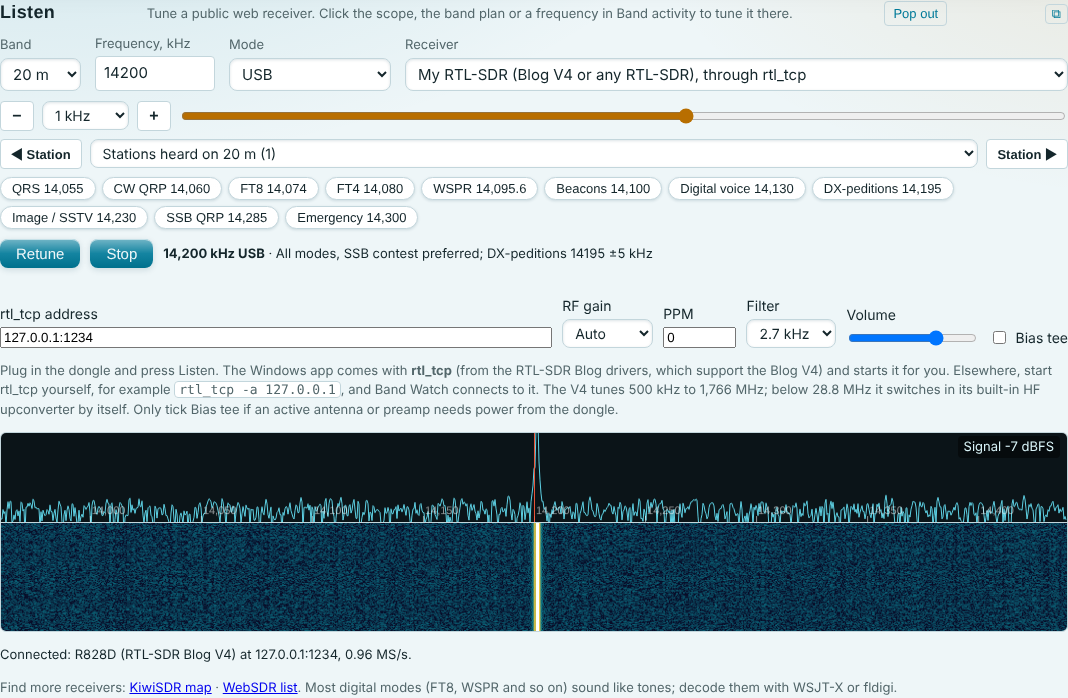
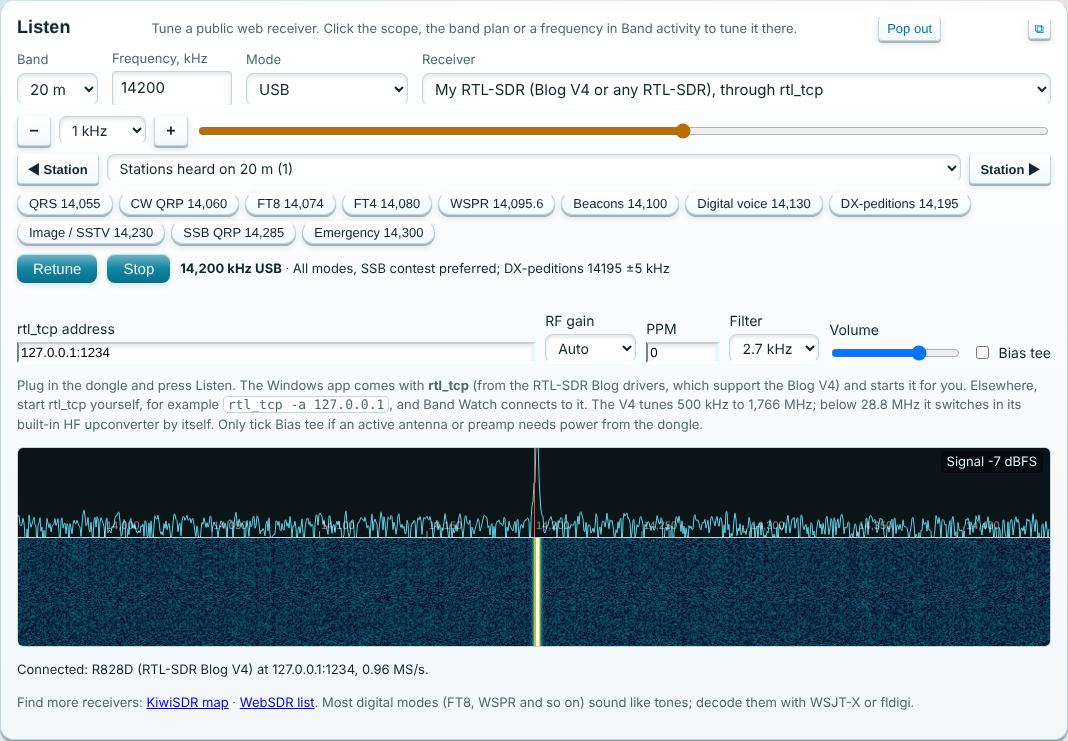
1.22.0: Listen goes with the popped-out Radio panel and plays there; everything 3D and sharp
Browsers only let a click start sound or open a window in the window that was
clicked, so the RTL-SDR's AudioContext/AudioWorkletNode and the receiver window
are now made from hostWindowOf("secListen"). POP_WITH takes Listen along with
the Radio panel; bringing it back stops sound that belonged to the closed window.
A 3D layer for Light/Dark: raised cards, lipped buttons, inset fields and
screens, raised table heads and header; High contrast and Night stay flat.

Claude-Session: https://claude.ai/code/session_0138xYeF1kWA1A3BkV9ZvHHy

Changed region(s): [[0.0, 0.4212, 1.0, 1.0], [0.0, 0.0, 1.0, 0.3911], [0.8034, 0.0, 0.8961, 0.0602]]

diff --git a/public/style.css b/public/style.css
@@ -529,3 +529,54 @@ dialog label.filebtn input{position:absolute;inset:0;opacity:0;cursor:pointer;ma
 .rigface .pnspec{border-radius:10px 10px 0 0}
 .popwin #secPanel .pnwf{height:clamp(150px,30vh,420px)}
 .popwin #secPanel .pnspec{height:clamp(120px,20vh,260px)}
+
+/* 1.22.0: everything 3D and sharp (Light, Dark and "Match my device"; High contrast and Night stay flat).
+   Each part sits on a raised card with a crisp lit top edge; buttons stand up on a lip and press in; boxes you type
+   in and screens (map, scope, receiver) are set into the card. */
+:root:not([data-theme="contrast"]):not([data-theme="night"]){--edge-hi:rgba(255,255,255,.85);--edge-lo:rgba(10,40,55,.20);--lip:rgba(10,40,55,.28);--card-top:#ffffff;--card-bot:#f2f8fa}
+/* Dark: written more specifically than the light values above, so they win */
+@media (prefers-color-scheme:dark){:root:not([data-theme="contrast"]):not([data-theme="night"]):not([data-theme="light"]):not([data-theme="dark"]){--edge-hi:rgba(255,255,255,.10);--edge-lo:rgba(0,0,0,.55);--lip:rgba(0,0,0,.6);--card-top:#16303f;--card-bot:#10232f}}
+:root[data-theme="dark"]:not([data-theme="contrast"]):not([data-theme="night"]):not([data-theme="light"]){--edge-hi:rgba(255,255,255,.10);--edge-lo:rgba(0,0,0,.55);--lip:rgba(0,0,0,.6);--card-top:#16303f;--card-bot:#10232f}
+:root:not([data-theme="contrast"]):not([data-theme="night"]) body{-webkit-font-smoothing:antialiased;text-rendering:optimizeLegibility}
+/* Raised cards */
+:root:not([data-theme="contrast"]):not([data-theme="night"]) .wrap > .panel,:root:not([data-theme="contrast"]):not([data-theme="night"]) .wrap > .cols > section,:root:not([data-theme="contrast"]):not([data-theme="night"]) body.popwin > .panel,:root:not([data-theme="contrast"]):not([data-theme="night"]) .hero{
+  padding:14px 16px;border-radius:14px;
+  background:linear-gradient(180deg,var(--card-top),var(--card-bot));
+  border:1px solid var(--line);border-top-color:var(--edge-hi);border-bottom-color:var(--edge-lo);
+  box-shadow:inset 0 1px 0 var(--edge-hi),0 1px 0 var(--edge-lo),0 3px 0 var(--lip),0 10px 22px var(--shade)}
+:root:not([data-theme="contrast"]):not([data-theme="night"]) .hero{padding:22px 18px 18px;margin-bottom:22px}
+/* Sharp headings: a fine embossed edge */
+:root:not([data-theme="contrast"]):not([data-theme="night"]) :is(h1,h2,h3){text-shadow:0 1px 0 var(--edge-hi),0 -1px 0 var(--edge-lo);letter-spacing:.005em}
+/* Buttons stand up on a lip, and press in */
+:root:not([data-theme="contrast"]):not([data-theme="night"]) :is(.lbtn,.qbtn,.tbtn,.tune,.chips button,.rigbtn,.filebtn,.dbtns button,.lsbar button,.optrow button,.dcrow button,.xtctl button){
+  background-image:linear-gradient(180deg,var(--gloss),transparent 55%),linear-gradient(180deg,var(--card-top),var(--card-bot));
+  border-color:var(--line);border-top-color:var(--edge-hi);border-bottom-color:var(--edge-lo);
+  box-shadow:inset 0 1px 0 var(--edge-hi),0 2px 0 var(--lip),0 3px 6px var(--shade);
+  transition:transform .06s,box-shadow .06s,filter .1s}
+:root:not([data-theme="contrast"]):not([data-theme="night"]) :is(.lbtn,.qbtn,.tbtn,.tune,.chips button,.rigbtn,.filebtn,.dbtns button,.lsbar button,.optrow button,.dcrow button,.xtctl button):active{
+  transform:translateY(2px);box-shadow:inset 0 1px 2px var(--shade),0 0 0 var(--lip)}
+/* Lit buttons keep their colour, with the gloss and the lip */
+:root:not([data-theme="contrast"]):not([data-theme="night"]) :is(.chips button[aria-pressed="true"],.qbtn.on,.lbtn.on,.rigbtn.on,.lk button,.qc .go){
+  background-image:linear-gradient(180deg,rgba(255,255,255,.45),rgba(255,255,255,.06) 52%,rgba(0,0,0,.06));
+  box-shadow:inset 0 1px 0 rgba(255,255,255,.55),0 2px 0 color-mix(in srgb,var(--cool) 55%,#000),0 4px 10px color-mix(in srgb,var(--cool) 35%,transparent)}
+/* Typing boxes and drop-downs are set into the card */
+:root:not([data-theme="contrast"]):not([data-theme="night"]) :is(input[type=text],input[type=search],input[type=number],input[type=url],input:not([type]),select,textarea):not(.pnentry){
+  border-color:var(--line);border-top-color:var(--edge-lo);border-bottom-color:var(--edge-hi);
+  box-shadow:inset 0 2px 4px var(--shade),0 1px 0 var(--edge-hi)}
+:root:not([data-theme="contrast"]):not([data-theme="night"]) #secPanel select{border-color:#0d1216;border-bottom-color:#56646e}
+/* Screens set into the card: the map, the band scope, the receiver, the ATS Mini picture */
+:root:not([data-theme="contrast"]):not([data-theme="night"]) :is(#scope,.map,#lsFrame,.atsscreen,.stmap,.planchart){
+  border-radius:10px;border:1px solid var(--edge-lo);border-bottom-color:var(--edge-hi);
+  box-shadow:inset 0 3px 10px var(--shade),0 1px 0 var(--edge-hi)}
+/* Table headings: a raised strip */
+:root:not([data-theme="contrast"]):not([data-theme="night"]) thead th{background:linear-gradient(180deg,var(--card-top),var(--card-bot));border-bottom:1px solid var(--edge-lo);box-shadow:inset 0 1px 0 var(--edge-hi)}
+/* The header bar */
+:root:not([data-theme="contrast"]):not([data-theme="night"]) header{padding:12px 16px 14px;margin-bottom:6px;border-radius:0 0 14px 14px;
+  background:linear-gradient(180deg,var(--card-top),var(--card-bot));box-shadow:inset 0 -1px 0 var(--edge-hi),0 2px 0 var(--lip),0 8px 18px var(--shade)}
+/* The Radio panel already has its own metal face: no card round it */
+:root:not([data-theme="contrast"]):not([data-theme="night"]) .wrap > #secPanel,:root:not([data-theme="contrast"]):not([data-theme="night"]) body.popwin > #secPanel{background:none;border:0;box-shadow:none;padding:0}
+/* The big band name: crisp and solid, not washed out */
+:root:not([data-theme="contrast"]):not([data-theme="night"]) .hero .big span{text-shadow:none;
+  background:linear-gradient(180deg,color-mix(in srgb,var(--cool) 88%,#fff) 0%,var(--cool) 55%,color-mix(in srgb,var(--cool) 78%,#000) 100%);
+  -webkit-background-clip:text;background-clip:text;color:transparent;filter:drop-shadow(0 2px 0 var(--lip)) drop-shadow(0 6px 10px color-mix(in srgb,var(--cool) 30%,transparent))}
+:root:not([data-theme="contrast"]):not([data-theme="night"]) .hero .big{text-shadow:0 2px 0 var(--edge-hi),0 3px 6px var(--shade)}

diff --git a/public/index.html b/public/index.html
@@ -15,8 +15,8 @@
 <meta name="apple-mobile-web-app-status-bar-style" content="black-translucent">
 <link rel="preconnect" href="https://fonts.googleapis.com">
 <link href="https://fonts.googleapis.com/css2?family=Barlow+Condensed:wght@500;700&family=Barlow:wght@400;500&display=swap" rel="stylesheet">
-<link rel="stylesheet" href="/style.css?v=1.21.0">
-<link rel="stylesheet" href="/listen.css?v=1.21.0">
+<link rel="stylesheet" href="/style.css?v=1.22.0">
+<link rel="stylesheet" href="/listen.css?v=1.22.0">
 </head>
 <body>
 <div class="wrap">
@@ -790,34 +790,34 @@
   The scope is drawn from those spot reports, not from a receiver. Lines on the main map are straight; the station window shows the true great-circle path.
   Listening uses public web receivers run by volunteers; Band Watch doesn't control what they hear.</p>
 </div>
-<script src="/js/install.js?v=1.21.0"></script>
-<script src="/js/bandplan.js?v=1.21.0"></script>
-<script src="/js/core.js?v=1.21.0"></script>
-<script src="/js/modes.js?v=1.21.0"></script>
-<script src="/js/map.js?v=1.21.0"></script>
-<script src="/js/scope.js?v=1.21.0"></script>
-<script src="/js/monitor.js?v=1.21.0"></script>
-<script src="/js/lookup.js?v=1.21.0"></script>
-<script src="/js/worldclock.js?v=1.21.0"></script>
-<script src="/js/locator.js?v=1.21.0"></script>
-<script src="/js/activity.js?v=1.21.0"></script>
-<script src="/js/qrz.js?v=1.21.0"></script>
-<script src="/js/hovercard.js?v=1.21.0"></script>
-<script src="/js/station.js?v=1.21.0"></script>
-<script src="/js/sdr-dsp.js?v=1.21.0"></script>
-<script src="/js/sdr.js?v=1.21.0"></script>
-<script src="/js/listen.js?v=1.21.0"></script>
-<script src="/js/rig.js?v=1.21.0"></script>
-<script src="/js/xota.js?v=1.21.0"></script>
-<script src="/js/eibi-data.js?v=1.21.0"></script>
-<script src="/js/eibi.js?v=1.21.0"></script>
-<script src="/js/panel.js?v=1.21.0"></script>
-<script src="/js/logbook.js?v=1.21.0"></script>
-<script src="/js/wanted.js?v=1.21.0"></script>
-<script src="/js/decoders.js?v=1.21.0"></script>
-<script src="/js/sun.js?v=1.21.0"></script>
-<script src="/js/options.js?v=1.21.0"></script>
-<script src="/js/windows.js?v=1.21.0"></script>
-<script src="/js/app.js?v=1.21.0"></script>
+<script src="/js/install.js?v=1.22.0"></script>
+<script src="/js/bandplan.js?v=1.22.0"></script>
+<script src="/js/core.js?v=1.22.0"></script>
+<script src="/js/modes.js?v=1.22.0"></script>
+<script src="/js/map.js?v=1.22.0"></script>
+<script src="/js/scope.js?v=1.22.0"></script>
+<script src="/js/monitor.js?v=1.22.0"></script>
+<script src="/js/lookup.js?v=1.22.0"></script>
+<script src="/js/worldclock.js?v=1.22.0"></script>
+<script src="/js/locator.js?v=1.22.0"></script>
+<script src="/js/activity.js?v=1.22.0"></script>
+<script src="/js/qrz.js?v=1.22.0"></script>
+<script src="/js/hovercard.js?v=1.22.0"></script>
+<script src="/js/station.js?v=1.22.0"></script>
+<script src="/js/sdr-dsp.js?v=1.22.0"></script>
+<script src="/js/sdr.js?v=1.22.0"></script>
+<script src="/js/listen.js?v=1.22.0"></script>
+<script src="/js/rig.js?v=1.22.0"></script>
+<script src="/js/xota.js?v=1.22.0"></script>
+<script src="/js/eibi-data.js?v=1.22.0"></script>
+<script src="/js/eibi.js?v=1.22.0"></script>
+<script src="/js/panel.js?v=1.22.0"></script>
+<script src="/js/logbook.js?v=1.22.0"></script>
+<script src="/js/wanted.js?v=1.22.0"></script>
+<script src="/js/decoders.js?v=1.22.0"></script>
+<script src="/js/sun.js?v=1.22.0"></script>
+<script src="/js/options.js?v=1.22.0"></script>
+<script src="/js/windows.js?v=1.22.0"></script>
+<script src="/js/app.js?v=1.22.0"></script>
 </body>
 </html>

diff --git a/public/js/windows.js b/public/js/windows.js
@@ -6,7 +6,16 @@ const POP_PARTS = [
   ["secBands", "Bands"], ["secMap", "Map"], ["secScope", "Band scope"], ["secListen", "Listen"], ["secPanel", "Radio panel"], ["secAts", "ATS Mini"], ["secSked", "Shortwave stations"],
   ["secDecode", "Decoder"], ["secXota", "POTA"], ["secWanted", "Wanted"], ["secLog", "Logbook"], ["secActivity", "Band activity"],
 ];
-const popWins = new Map(); // part id -> { win, holder }
+const popWins = new Map(); // part id -> { win, holder, doc, extras: [{ id, holder }] }
+// Parts that go along in the same window: Listen goes with the Radio panel, so its sound plays where you click.
+const POP_WITH = { secPanel: ["secListen"] };
+
+/** The window a part is in now: the main one, or its own. Sound and new windows start from there, because
+ * browsers only let a click start sound (or open a window) in the window that was clicked. */
+function hostWindowOf(id) {
+  const el = typeof $ === "function" ? $(id) : document.getElementById(id);
+  return (el && el.ownerDocument && el.ownerDocument.defaultView) || window;
+}
 
 function popPlaces() {
   try { return JSON.parse(load("bw-windows") || "{}") || {}; } catch { return {}; }
@@ -58,8 +67,23 @@ ${popStyles()}
   backBtn.onclick = () => popBack(id);
   el.before(holder);
   doc.body.appendChild(doc.adoptNode(el));
+  // Parts that come along (Listen with the radio), unless they're already in a window of their own
+  const extras = [];
+  for (const xid of POP_WITH[id] || []) {
+    const x = document.getElementById(xid);
+    if (!x || popWins.has(xid)) continue;
+    const xl = (POP_PARTS.find(([pid]) => pid === xid) || [, xid])[1];
+    const xh = document.createElement("div");
+    xh.className = "pophold small muted";
+    xh.innerHTML = `<b>${esc(xl)}</b> is in the ${esc(label)} window. <button type="button" class="lbtn">Show it</button>`;
+    xh.querySelector("button").onclick = () => win.focus();
+    x.before(xh);
+    x.querySelector(".popbtn") && (x.querySelector(".popbtn").hidden = true); // it goes back with the radio
+    doc.body.appendChild(doc.adoptNode(x));
+    extras.push({ id: xid, holder: xh });
+  }
   popDocs.add(doc);
-  popWins.set(id, { win, holder, doc });
+  popWins.set(id, { win, holder, doc, extras });
   doc.getElementById("popBack").onclick = () => popBack(id);
   // Remember where it was put (another screen, say) for next time
   const remember = () => {
@@ -81,9 +105,22 @@ function popBack(id, closing = false) {
   const p = popWins.get(id);
   if (!p) return;
   popWins.delete(id);
+  // Sound that was started in that window stops with it: say so, so Listen can be pressed again here.
+  if (typeof sdr !== "undefined" && sdr.running && sdr.ctxWin === p.win && typeof sdrStop === "function") {
+    sdrStop("Moved back to the main window: press Listen to hear it here.");
+  }
+  if (typeof listen !== "undefined" && listen.win && listen.winHost === p.win) listen.win = null;
   const el = p.doc.getElementById(id);
   if (el) p.holder.replaceWith(document.adoptNode(el));
   else p.holder.remove();
+  for (const x of p.extras || []) {
+    const xe = p.doc.getElementById(x.id);
+    if (xe) {
+      x.holder.replaceWith(document.adoptNode(xe));
+      const b = xe.querySelector(".popbtn");
+      if (b) b.hidden = false;
+    } else x.holder.remove();
+  }
   popDocs.delete(p.doc);
   if (!closing) { try { p.win.close(); } catch { /* closed */ } }
   window.dispatchEvent(new Event("resize"));

diff --git a/test/browser.test.js b/test/browser.test.js
@@ -1415,6 +1415,33 @@ test("RTL-SDR: connects to rtl_tcp, tunes, plays and shows the waterfall; click 
   assert.deepEqual(errors.filter((e) => !/request failed: .*\/api\/sdr\/stream/.test(e)), []);
 });
 
+test("radio panel popped out: Listen goes with it, and the RTL-SDR's sound starts in that window", { skip }, async (t) => {
+  const fake = await startStreamingRtlTcp();
+  t.after(() => { for (const s of fake.state.sockets) s.destroy(); fake.server.close(); });
+  const { page, errors } = await openPage(t);
+  await page.selectOption("#lsRx", "rtl");
+  await page.fill("#rtlAddr", `127.0.0.1:${fake.port}`);
+  await page.press("#rtlAddr", "Enter");
+  const [win] = await Promise.all([page.waitForEvent("popup"), page.click("#pnPop")]);
+  await win.waitForSelector("#secPanel #pnKnob");
+  await win.waitForSelector("#secListen #lsGo");
+  assert.equal(await page.$("#secListen"), null, "Listen went with the radio");
+  assert.match(await page.textContent("body"), /Listen is in the Radio panel window/);
+  // Listen, pressed in the radio's window: the sound is made in that window
+  await win.click("#pnListen");
+  await page.waitForFunction(() => /Connected: R828D/.test($("rtlStatus").textContent)); // $() finds it in the radio's window
+  assert.equal(await page.evaluate(() => sdr.ctxWin !== window && sdr.ctxWin === popWins.get("secPanel").win), true);
+  await page.waitForFunction(() => sdr.ctx && sdr.ctx.state === "running", null, { timeout: 5000 });
+  assert.equal(await win.textContent("#pnListen"), "Stop listening");
+  // Back to the main window: that window's sound stops, and says how to start it here
+  await win.click("#pnPop");
+  await page.waitForSelector("#secListen #lsGo");
+  await page.waitForFunction(() => !sdr.running);
+  assert.match(await page.textContent("#rtlStatus"), /press Listen to hear it here/);
+  assert.ok(await page.isVisible("#secListen .popbtn"), "Listen's own window button is back");
+  assert.deepEqual(errors.filter((e) => !/request failed: .*\/api\/sdr\/stream/.test(e)), []); // the stream closed on purpose
+});
+
 test("RTL-SDR: clear messages when rtl_tcp isn't running, or the address is wrong", { skip }, async (t) => {
   const { page, errors } = await openPage(t);
   await page.selectOption("#lsRx", "rtl");

diff --git a/public/js/sdr.js b/public/js/sdr.js
@@ -269,9 +269,12 @@ async function sdrStart() {
   sdrSetStatus(`Connecting to rtl_tcp at ${sdr.addr}…`);
   try {
     // The page asked for sound with a click, so the browser lets it play.
-    sdr.ctx = new AudioContext({ sampleRate: SdrDsp.AUDIO_RATE });
-    await sdr.ctx.audioWorklet.addModule("/js/sdr-worklet.js?v=1.8.0");
-    sdr.node = new AudioWorkletNode(sdr.ctx, "bw-sdr-player", { outputChannelCount: [2] });
+    // In the window Listen is in (its own, when it went out with the Radio panel): that's where the click was.
+    const W = typeof hostWindowOf === "function" ? hostWindowOf("secListen") : window;
+    sdr.ctxWin = W;
+    sdr.ctx = new W.AudioContext({ sampleRate: SdrDsp.AUDIO_RATE });
+    await sdr.ctx.audioWorklet.addModule(new URL("/js/sdr-worklet.js?v=1.8.0", location.href).href);
+    sdr.node = new W.AudioWorkletNode(sdr.ctx, "bw-sdr-player", { outputChannelCount: [2] });
     sdr.node.connect(sdr.ctx.destination);
     if (sdr.ctx.state === "suspended") await sdr.ctx.resume().catch(() => {});
   } catch (err) {
@@ -416,6 +419,7 @@ function sdrStop(why = "") {
   sdr.abort = null;
   if (sdr.ctx) sdr.ctx.close().catch(() => {});
   sdr.ctx = sdr.node = null;
+  sdr.ctxWin = null;
   sdrSetStatus(why || (wasRunning ? "Stopped." : ""));
   if (wasRunning && typeof drawScope === "function") { renderScopeSrc(); drawScope(); }
   const m = $("rtlMeter");

diff --git a/public/js/decoders.js b/public/js/decoders.js
@@ -45,7 +45,7 @@ async function dcStart() {
   dc.running = true;
   dc.rate = 0;
   if (dc.mode === "CW") dc.cwText = "";
-  dc.worker = new Worker("/js/ft8-worker.js?v=1.21.0");
+  dc.worker = new Worker("/js/ft8-worker.js?v=1.22.0");
   dc.worker.onmessage = (e) => onDecoderMessage(e.data);
   dc.worker.onerror = (e) => { dcStop(); dcSetStatus(`The decoder stopped: ${e.message}`); };
   if (dc.src === "mic") {
@@ -54,7 +54,7 @@ async function dcStart() {
       if (dc.device) constraints.deviceId = { exact: dc.device };
       dc.stream = await navigator.mediaDevices.getUserMedia({ audio: constraints });
       dc.ctx = new AudioContext();
-      await dc.ctx.audioWorklet.addModule("/js/capture-worklet.js?v=1.21.0");
+      await dc.ctx.audioWorklet.addModule("/js/capture-worklet.js?v=1.22.0");
       const srcNode = dc.ctx.createMediaStreamSource(dc.stream);
       dc.node = new AudioWorkletNode(dc.ctx, "bw-capture");
       dc.node.port.onmessage = (e) => decoderFeed(e.data, dc.ctx.sampleRate);

diff --git a/public/js/listen.js b/public/js/listen.js
@@ -168,7 +168,10 @@ function startListening() {
     if (live && listen.win && !listen.win.closed) {
       listen.win.postMessage(`tune ${listen.kHz}${listen.mode}`, "*");
     } else {
-      listen.win = window.open(url, "bandwatch-receiver", "popup,width=1100,height=760");
+      // From the window Listen is in, where the click was (browsers block windows opened from another one)
+      const host = typeof hostWindowOf === "function" ? hostWindowOf("secListen") : window;
+      listen.win = host.open(url, "bandwatch-receiver", "popup,width=1100,height=760");
+      listen.winHost = host;
       if (!listen.win) {
         $("lsErr").innerHTML = `Your browser blocked the receiver window. <a href="${esc(url)}" target="bandwatch-receiver" rel="noopener">Open it here</a>.`;
         return;

diff --git a/public/decodes.html b/public/decodes.html
@@ -5,8 +5,8 @@
 <meta name="viewport" content="width=device-width, initial-scale=1">
 <title>Decodes · Band Watch by M3vrv</title>
 <link rel="icon" href="/favicon.svg" type="image/svg+xml">
-<link rel="stylesheet" href="/style.css?v=1.21.0">
-<link rel="stylesheet" href="/listen.css?v=1.21.0">
+<link rel="stylesheet" href="/style.css?v=1.22.0">
+<link rel="stylesheet" href="/listen.css?v=1.22.0">
 <style>
   body{margin:0}
   .dw{padding:12px 16px;display:flex;flex-direction:column;height:100vh;box-sizing:border-box}
@@ -33,6 +33,6 @@
     </table>
   </div>
 </div>
-<script src="/js/decodes-page.js?v=1.21.0"></script>
+<script src="/js/decodes-page.js?v=1.22.0"></script>
 </body>
 </html>

diff --git a/public/js/options.js b/public/js/options.js
@@ -298,6 +298,7 @@ async function quitDesktop() {
 
 // What each version added. The build date of the copy you're running comes from the server.
 const VERSION_HISTORY = [
+  ["1.22.0", "Listen goes with the popped-out radio and plays there; everything looks 3D and sharp"],
   ["1.21.0", "Radio panel: a waterfall under the spectrum, Pop out into its own window, and a 3D glossy look"],
   ["1.20.0", "Radio panel: big frequency display, S-meter, close-up spectrum, band and mode keys and a tuning knob"],
   ["1.19.0", "Shortwave stations on air now, from the EiBi schedule: click one to tune your ATS Mini or radio"],

diff --git a/public/js/ft8-worker.js b/public/js/ft8-worker.js
@@ -3,7 +3,7 @@
  * cycle or two, and decodes each 15 s (FT8) or 7.5 s (FT4) cycle as soon as it is complete,
  * lined up with UTC as WSJT-X does (so the PC clock needs to be right to within a second). */
 "use strict";
-importScripts("/js/ft8.js?v=1.21.0", "/js/wspr.js?v=1.21.0", "/js/cw.js?v=1.21.0");
+importScripts("/js/ft8.js?v=1.22.0", "/js/wspr.js?v=1.22.0", "/js/cw.js?v=1.22.0");
 
 // WSPR: two-minute cycles on the even minute, decoded at 12000 samples a second.
 const WSPR_PROTO = { name: "WSPR", period: 120, fs: 12000 };

diff --git a/public/sw.js b/public/sw.js
@@ -2,7 +2,7 @@
 // and opens the last copy of the page when there's no connection. Live data (/api/) is never cached:
 // it always comes straight from the server, so what you see is never out of date without saying so.
 "use strict";
-const VERSION = "1.21.0";
+const VERSION = "1.22.0";
 const CACHE = `bandwatch-${VERSION}`;
 const SHELL = ["/", "/install", "/style.css", "/listen.css", "/install.css", "/favicon.svg", "/manifest.webmanifest", "/icons/icon-192.png"];
 

diff --git a/CHANGELOG.md b/CHANGELOG.md
@@ -1,5 +1,15 @@
 # What's new
 
+## 1.22.0 (18 Nov 2026)
+- **Listen goes with the Radio panel:** when you pop the radio out, the Listen panel goes into the same window, under
+  it. Pressing **Listen** there now starts the sound (your RTL-SDR, or a receiver playing inside Band Watch) in that
+  window. Before, browsers wouldn't start sound from a click in another window, so nothing played until the radio
+  was back. Bringing the radio back stops that window's sound and says to press Listen again.
+- **Everything 3D and sharp:** every part of Band Watch now sits on a raised card with a crisp lit edge; buttons stand
+  up and press in; the boxes you type in, the map, the band scope and the receiver are set into the card; table
+  headings and the top bar are raised; headings and the big band name are crisper. High contrast and Night stay
+  flat, for reading.
+
 ## 1.21.0 (18 Nov 2026)
 - **Radio panel: waterfall and Pop out.** A waterfall now runs under the panel's spectrum, like the scope on a real
   radio: live from your RTL-SDR (about ten rows a second), or built from the stations spotted there. Click it to
